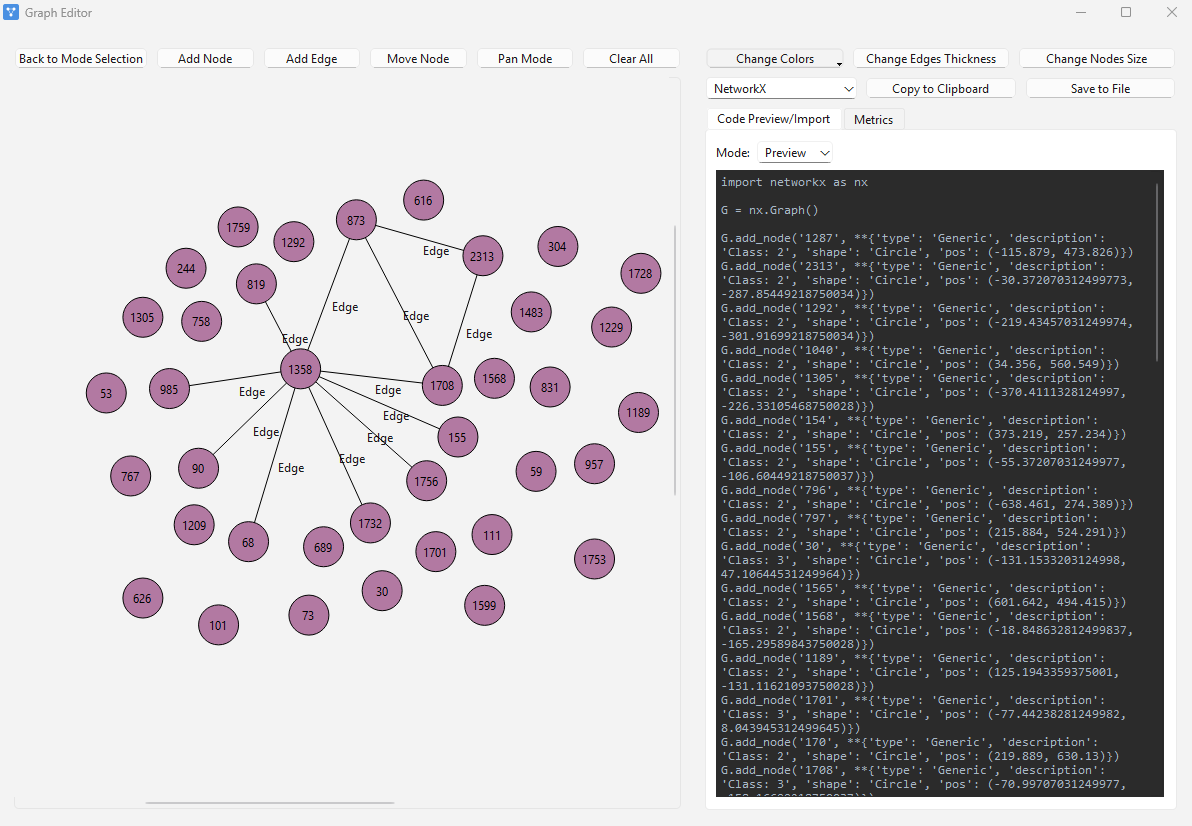
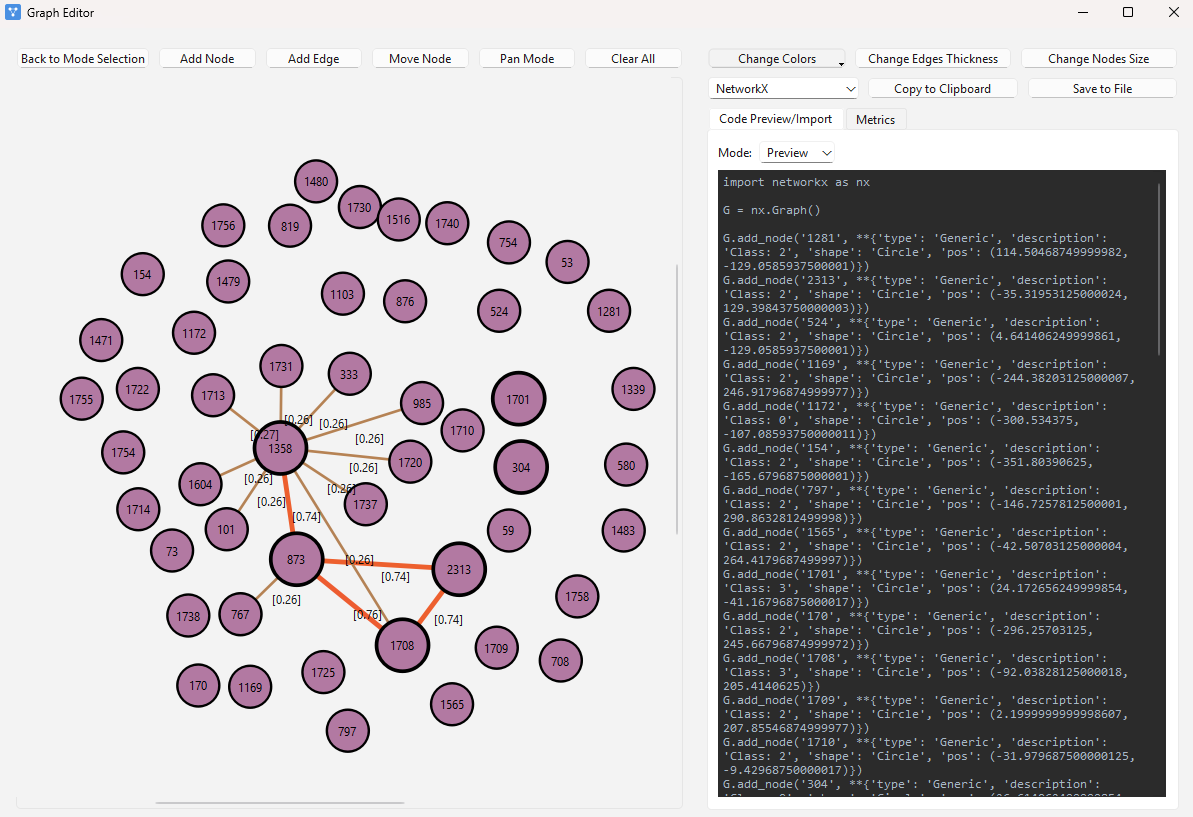
Refactor generate_node_type_styles to use distinct colors and a fixed Circle shape for node types

diff --git a/src/code_gen/entire_dataset_code_gen.py b/src/code_gen/entire_dataset_code_gen.py
@@ -336,16 +336,8 @@ def filter_hetero_graph(data: HeteroData, num_nodes: int):
 
 def generate_node_type_styles(node_types):
     """
-    Dynamically assign colors and shapes to node types.
+    Dynamically assign distinct colors to node types using Circle shape.
     """
-
-    shapes = [
-        "Circle",
-        "Rectangle",
-        "Ellipse",
-        "Diamond",
-    ]
-
     # Color palette (hex)
     colors = [
         "#4C78A8",
@@ -361,13 +353,13 @@ def generate_node_type_styles(node_types):
     styles = {}
 
     for i, node_type in enumerate(node_types):
-
         styles[node_type] = {
-            "shape": shapes[i % len(shapes)],
+            "shape": "Circle",
             "color": colors[i % len(colors)],
         }
 
     return styles
+
 
 
 def export_pyg_hetero_graph_to_python(
